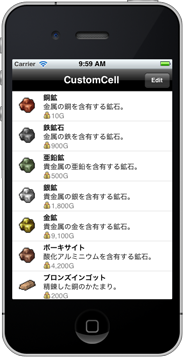
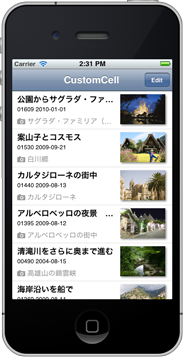
Update CustomCell

diff --git a/CustomCell/CustomCell/CustomViewCell.m b/CustomCell/CustomCell/CustomViewCell.m
@@ -21,31 +21,31 @@
 
 @implementation CustomViewCell
 
-@synthesize nameLabel, descriptionLabel, priceLabel;
+@synthesize titleLabel, dateLabel, locationLabel;
 
 // セル全体の上マージン
-#define CELL_TOP_MARGIN 4
+#define CELL_TOP_MARGIN 6
 
 // セル全体の下マージン
-#define CELL_BOTTOM_MARGIN 4
+#define CELL_BOTTOM_MARGIN 6
 
 // セル全体の左マージン
-#define CELL_LEFT_MARGIN 6
+#define CELL_LEFT_MARGIN 10
 
 // セル全体の右マージン
-#define CELL_RIGHT_MARGIN 4
+#define CELL_RIGHT_MARGIN 14
 
-// コンテンツの左マージン
-#define CONTENT_LEFT_MARGIN 8
+// 画像の横サイズ
+#define IMAGE_WIDTH 90
 
-// 画像の縦横サイズ
-#define IMAGE_SIZE 48
+// 画像の縦サイズ
+#define IMAGE_HEIGHT 60
 
-// 最小のセルの高さ
-#define CELL_MIN_HEIGHT (CELL_TOP_MARGIN + IMAGE_SIZE + CELL_BOTTOM_MARGIN)
+// 水平のマージン
+#define HORIZONTAL_MARGIN 8
 
-// コンテンツの左位置
-#define CONTENT_LEFT (CELL_LEFT_MARGIN + IMAGE_SIZE + CONTENT_LEFT_MARGIN)
+// コンテンツ幅計算用の差分値
+#define CONTENT_DIFFERENTIAL_WIDTH (CELL_LEFT_MARGIN + CELL_RIGHT_MARGIN + IMAGE_WIDTH + HORIZONTAL_MARGIN)
 
 - (id)initWithStyle:(UITableViewCellStyle)style reuseIdentifier:(NSString *)reuseIdentifier
 {
@@ -58,14 +58,19 @@
         contentView.backgroundColor = [UIColor clearColor];
         [self.contentView addSubview:contentView];
         
-        nameLabel = [[UILabel alloc] init];
-        nameLabel.font = [UIFont boldSystemFontOfSize:14];
+        // imageViewに影を付ける
+        self.imageView.layer.shadowOpacity = 0.5;
+        self.imageView.layer.shadowOffset = CGSizeMake(2, 2);
+        self.imageView.layer.shadowRadius = 2.0;
         
-        descriptionLabel = [[UILabel alloc] init];
-        descriptionLabel.font = [UIFont systemFontOfSize:14];
+        titleLabel = [[UILabel alloc] init];
+        titleLabel.font = [UIFont boldSystemFontOfSize:16];
         
-        priceLabel = [[UILabel alloc] init];
-        priceLabel.font = [UIFont systemFontOfSize:14];
+        dateLabel = [[UILabel alloc] init];
+        dateLabel.font = [UIFont systemFontOfSize:12];
+        
+        locationLabel = [[UILabel alloc] init];
+        locationLabel.font = [UIFont systemFontOfSize:14];
     }
     return self;
 }
@@ -99,9 +104,9 @@
 
 - (void)dealloc
 {
-    [nameLabel release];
-    [descriptionLabel release];
-    [priceLabel release];
+    [titleLabel release];
+    [dateLabel release];
+    [locationLabel release];
     [contentView removeFromSuperview];
     [contentView release];
     [super dealloc];
@@ -112,15 +117,17 @@
 - (void) layoutSubviews
 {
     [super layoutSubviews];
-    self.imageView.frame = CGRectMake(CELL_LEFT_MARGIN, CELL_TOP_MARGIN, IMAGE_SIZE, IMAGE_SIZE);
+    float y = CELL_TOP_MARGIN;
+    float x = self.bounds.size.width - (IMAGE_WIDTH + CELL_RIGHT_MARGIN);
+    self.imageView.frame = CGRectMake(x, y, IMAGE_WIDTH, IMAGE_HEIGHT);
     self.imageView.contentMode = UIViewContentModeScaleAspectFit;
 }
 
 - (void)drawRectContent:(CGRect)rect
 {
-    float content_width = (rect.size.width - CONTENT_LEFT - CELL_RIGHT_MARGIN);
+    float content_width = rect.size.width - CONTENT_DIFFERENTIAL_WIDTH;
     float y = CELL_TOP_MARGIN;
-    float x = CONTENT_LEFT;
+    float x = CELL_LEFT_MARGIN;
     
     // フォントカラー設定
     UIColor *blackColor;
@@ -138,28 +145,30 @@
     CGRect r;
     
     [blackColor set];
-    s = nameLabel.text;
-    size = [s sizeWithFont:nameLabel.font forWidth:content_width lineBreakMode:UILineBreakModeTailTruncation];
+    s = titleLabel.text;
+    size = [s sizeWithFont:titleLabel.font forWidth:content_width lineBreakMode:UILineBreakModeTailTruncation];
     r = CGRectMake(x, y, size.width, size.height);
-    [s drawInRect:r withFont:nameLabel.font];
+    [s drawInRect:r withFont:titleLabel.font lineBreakMode:UILineBreakModeTailTruncation];
+    
+    y += r.size.height + 2;
     
     [blackColor set];
-    y += r.size.height;
-    s = descriptionLabel.text;
-    size = [s sizeWithFont:descriptionLabel.font forWidth:content_width lineBreakMode:UILineBreakModeTailTruncation];
+    s = dateLabel.text;
+    size = [s sizeWithFont:dateLabel.font forWidth:content_width lineBreakMode:UILineBreakModeTailTruncation];
     r = CGRectMake(x, y, size.width, size.height);
-    [s drawInRect:r withFont:descriptionLabel.font];
+    [s drawInRect:r withFont:dateLabel.font];
+    
+    y += r.size.height + 8;
     
     [grayColor set];
-    y += r.size.height;
-    s = priceLabel.text;
-    size = [s sizeWithFont:priceLabel.font forWidth:content_width lineBreakMode:UILineBreakModeTailTruncation];
-    r = CGRectMake(x + 16, y, size.width, size.height);
-    [s drawInRect:r withFont:priceLabel.font];
+    s = locationLabel.text;
+    size = [s sizeWithFont:locationLabel.font forWidth:content_width - 20 lineBreakMode:UILineBreakModeTailTruncation];
+    r = CGRectMake(x + 20, y, size.width, size.height);
+    [s drawInRect:r withFont:locationLabel.font lineBreakMode:UILineBreakModeTailTruncation];
     
     // 画像描画
-    UIImage *image = [UIImage imageNamed:@"dollar.gif"];
-    CGRect frame = CGRectMake(x, y + 1, 14, 14);
+    UIImage *image = [UIImage imageNamed:@"86-camera.png"];
+    CGRect frame = CGRectMake(x, y + 3, 16, 12);
     CGContextRef context = UIGraphicsGetCurrentContext();
     CGContextSaveGState(context);
     

diff --git a/CustomCell/CustomCell/RootViewController.m b/CustomCell/CustomCell/RootViewController.m
@@ -49,18 +49,14 @@
     
     // データを生成
     _datas = [[NSArray alloc] initWithObjects:
-              [NSDictionary dictionaryWithObjectsAndKeys:@"銅鉱", @"name", @"ore01.png", @"image", @"金属の銅を含有する鉱石。", @"description", @"10G", @"price", nil],
-              [NSDictionary dictionaryWithObjectsAndKeys:@"鉄鉱石", @"name", @"ore02.png", @"image", @"金属の鉄を含有する鉱石。", @"description", @"900G", @"price", nil],
-              [NSDictionary dictionaryWithObjectsAndKeys:@"亜鉛鉱", @"name", @"ore03.png", @"image", @"貴金属の亜鉛を含有する鉱石。", @"description", @"500G", @"price", nil],
-              [NSDictionary dictionaryWithObjectsAndKeys:@"銀鉱", @"name", @"ore04.png", @"image", @"貴金属の銀を含有する鉱石。", @"description", @"1,800G", @"price", nil],
-              [NSDictionary dictionaryWithObjectsAndKeys:@"金鉱", @"name", @"ore05.png", @"image", @"貴金属の金を含有する鉱石。", @"description", @"9,100G", @"price", nil],
-              [NSDictionary dictionaryWithObjectsAndKeys:@"ボーキサイト", @"name", @"ore06.png", @"image", @"酸化アルミニウムを含有する鉱石。", @"description", @"4,200G", @"price", nil],
-              [NSDictionary dictionaryWithObjectsAndKeys:@"ブロンズインゴット", @"name", @"ingot01.png", @"image", @"精錬した銅のかたまり。", @"description", @"200G", @"price", nil],
-              [NSDictionary dictionaryWithObjectsAndKeys:@"アイアンインゴット", @"name", @"ingot02.png", @"image", @"精錬した鉄のかたまり。", @"description", @"3,600G", @"price", nil],
-              [NSDictionary dictionaryWithObjectsAndKeys:@"ブラスインゴット", @"name", @"ingot03.png", @"image", @"精錬した黄銅のかたまり。", @"description", @"2,200G", @"price", nil],
-              [NSDictionary dictionaryWithObjectsAndKeys:@"シルバーインゴット", @"name", @"ingot04.png", @"image", @"精錬した銀のかたまり。", @"description", @"7,500G", @"price", nil],
-              [NSDictionary dictionaryWithObjectsAndKeys:@"ゴールドインゴット", @"name", @"ingot05.png", @"image", @"精錬した金のかたまり。", @"description", @"37,200G", @"price", nil],
-              [NSDictionary dictionaryWithObjectsAndKeys:@"アルミインゴット", @"name", @"ingot06.png", @"image", @"精錬したアルミニウムのかたまり。", @"description", @"21,000G", @"price", nil],
+              [NSDictionary dictionaryWithObjectsAndKeys:@"01609", @"id", @"公園からサグラダ・ファミリアを", @"title", @"サグラダ・ファミリア（聖家族教会）", @"location", @"2img_2788.jpg", @"image", @"2010-01-01", @"date", nil],
+              [NSDictionary dictionaryWithObjectsAndKeys:@"01530", @"id", @"案山子とコスモス", @"title", @"白川郷", @"location", @"1img_9973.jpg", @"image", @"2009-09-21", @"date", nil],
+              [NSDictionary dictionaryWithObjectsAndKeys:@"01440", @"id", @"カルタジローネの街中", @"title", @"カルタジローネ", @"location", @"1img_9579.jpg", @"image", @"2009-08-13", @"date", nil],
+              [NSDictionary dictionaryWithObjectsAndKeys:@"01395", @"id", @"アルベロベッロの夜景　その４", @"title", @"アルベロベッロの街中", @"location", @"1img_9093.jpg", @"image", @"2009-08-12", @"date", nil],
+              [NSDictionary dictionaryWithObjectsAndKeys:@"00490", @"id", @"清滝川をさらに奥まで進む", @"title", @"高雄山の錦雲峡", @"location", @"CRW_5446_JFR.jpg", @"image", @"2004-08-15", @"date", nil],
+              [NSDictionary dictionaryWithObjectsAndKeys:@"01369", @"id", @"海岸沿いを船で", @"title", @"アマルフィー海岸", @"location", @"1img_8859.jpg", @"image", @"2009-08-11", @"date", nil],
+              [NSDictionary dictionaryWithObjectsAndKeys:@"01351", @"id", @"ボートでの1周も終え", @"title", @"青の洞窟（Grotta Azzurra）", @"location", @"1img_8691.jpg", @"image", @"2009-08-10", @"date", nil],
+              [NSDictionary dictionaryWithObjectsAndKeys:@"00212", @"id", @"夕焼け時の黄金色の海の写真", @"title", @"かりゆしビーチ付近", @"location", @"DSC00330.jpg", @"image", @"2003-08-11", @"date", nil],
               nil];
 }
 
@@ -119,7 +115,7 @@
 
 - (CGFloat)tableView:(UITableView *)tableView heightForRowAtIndexPath:(NSIndexPath *)indexPath
 {
-    return  60.0f;
+    return  76.0f;
 }
 
 - (UITableViewCell *)tableView:(UITableView *)tableView cellForRowAtIndexPath:(NSIndexPath *)indexPath
@@ -133,9 +129,9 @@
     
     // 中身を生成
     NSDictionary *data = [_datas objectAtIndex:indexPath.row];
-    cell.nameLabel.text = [data objectForKey:@"name"];
-    cell.descriptionLabel.text = [data objectForKey:@"description"];
-    cell.priceLabel.text = [data objectForKey:@"price"];
+    cell.titleLabel.text = [data objectForKey:@"title"];
+    cell.dateLabel.text = [NSString stringWithFormat:@"%@ %@", [data objectForKey:@"id"], [data objectForKey:@"date"]];
+    cell.locationLabel.text = [data objectForKey:@"location"];
     cell.imageView.image = [UIImage imageNamed:[data objectForKey:@"image"]];
     
     return cell;

diff --git a/CustomCell/CustomCell/CustomViewCell.h b/CustomCell/CustomCell/CustomViewCell.h
@@ -12,14 +12,14 @@
 @interface CustomViewCell : UITableViewCell
 {
     UIView *contentView;
-    UILabel *nameLabel;
-    UILabel *descriptionLabel;
-    UILabel *priceLabel;
+    UILabel *titleLabel;
+    UILabel *dateLabel;
+    UILabel *locationLabel;
 }
 
-@property (nonatomic, retain) UILabel *nameLabel;
-@property (nonatomic, retain) UILabel *descriptionLabel;
-@property (nonatomic, retain) UILabel *priceLabel;
+@property (nonatomic, retain) UILabel *titleLabel;
+@property (nonatomic, retain) UILabel *dateLabel;
+@property (nonatomic, retain) UILabel *locationLabel;
 
 - (void)drawRectContent:(CGRect)rect;
 

diff --git a/CustomCell/CustomCell/AppDelegate.m b/CustomCell/CustomCell/AppDelegate.m
@@ -30,7 +30,6 @@
     // RootViewController生成
     RootViewController *rootViewController = [[[RootViewController alloc] init] autorelease];
     self.navigationController = [[[UINavigationController alloc] initWithRootViewController:rootViewController] autorelease];
-    self.navigationController.navigationBar.barStyle = UIBarStyleBlack;
     self.window.rootViewController = self.navigationController;
     
     [self.window makeKeyAndVisible];
